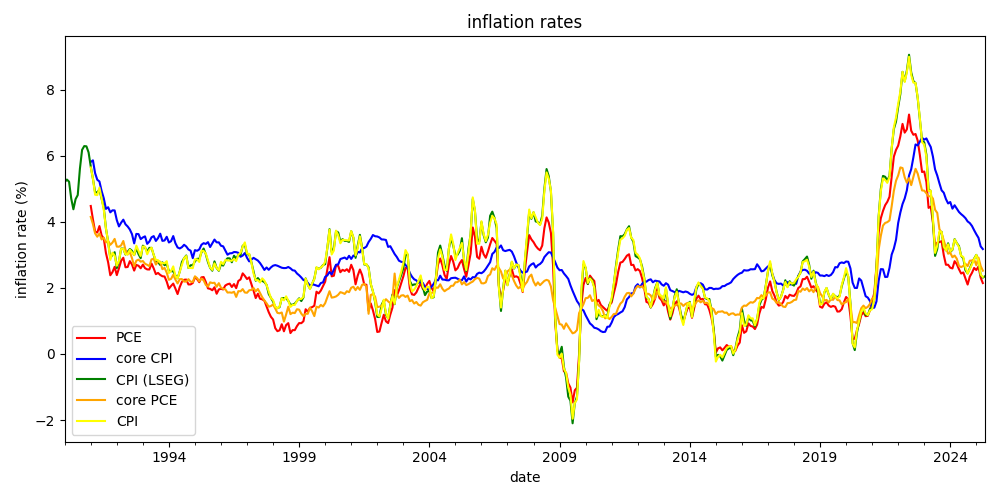
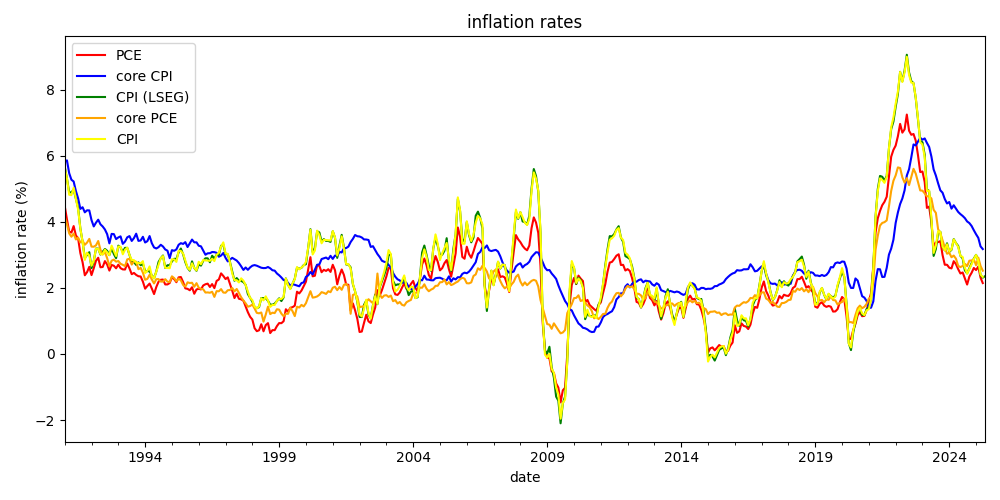
cut off from 1991 onward

diff --git a/plots/realrates.py b/plots/realrates.py
@@ -3,6 +3,11 @@ import matplotlib.pyplot as plt
 
 from loader import inflation, yields 
 
+# truncate to start from cutoff date '1991-01-01'
+cutoff_date = '1991-01-01'
+inflation = inflation.truncate(before=cutoff_date)
+yields = yields.truncate(before=cutoff_date)
+
 # join inflation and yields, calculate real rates
 
 inflation_and_yields = inflation.join(yields, how='left').dropna()

diff --git a/plots/fxrates.py b/plots/fxrates.py
@@ -1,9 +1,9 @@
 import pandas as pd 
 import matplotlib.pyplot as plt
 
-# load data, truncate data to start from 1990-01-01
+# load data, truncate data to start from 1991-01-01
 
-cutoff_date = '1990-01-01'
+cutoff_date = '1991-01-01'
 
 fxrates = pd.read_csv('/Users/aryaman/macro-research/data/fxrates.csv', index_col=0, parse_dates=True)
 fxrates = fxrates.truncate(before=cutoff_date)
